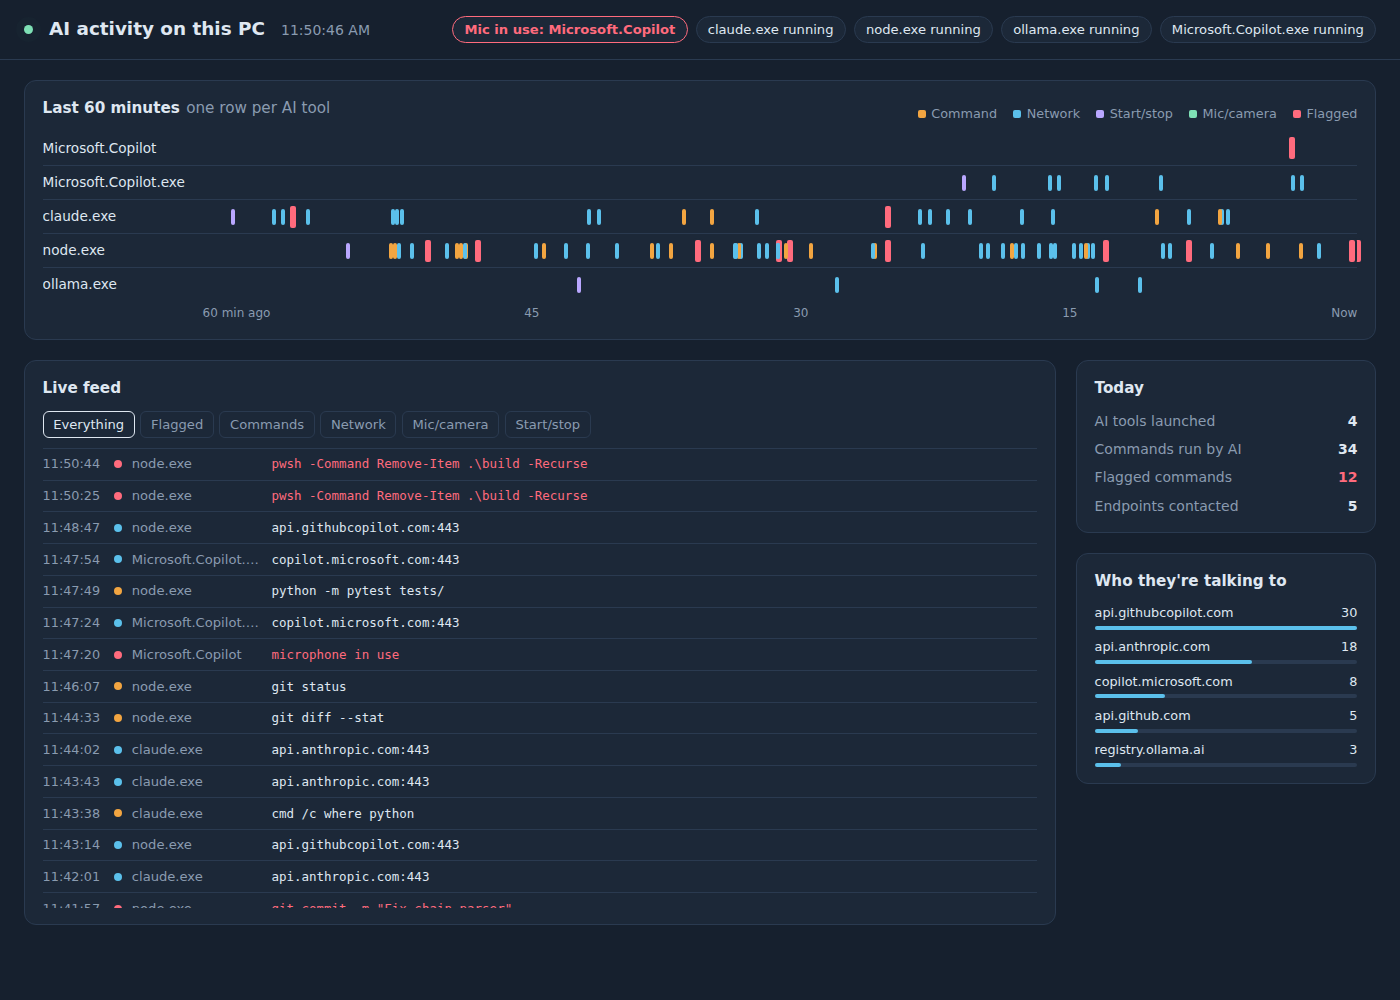
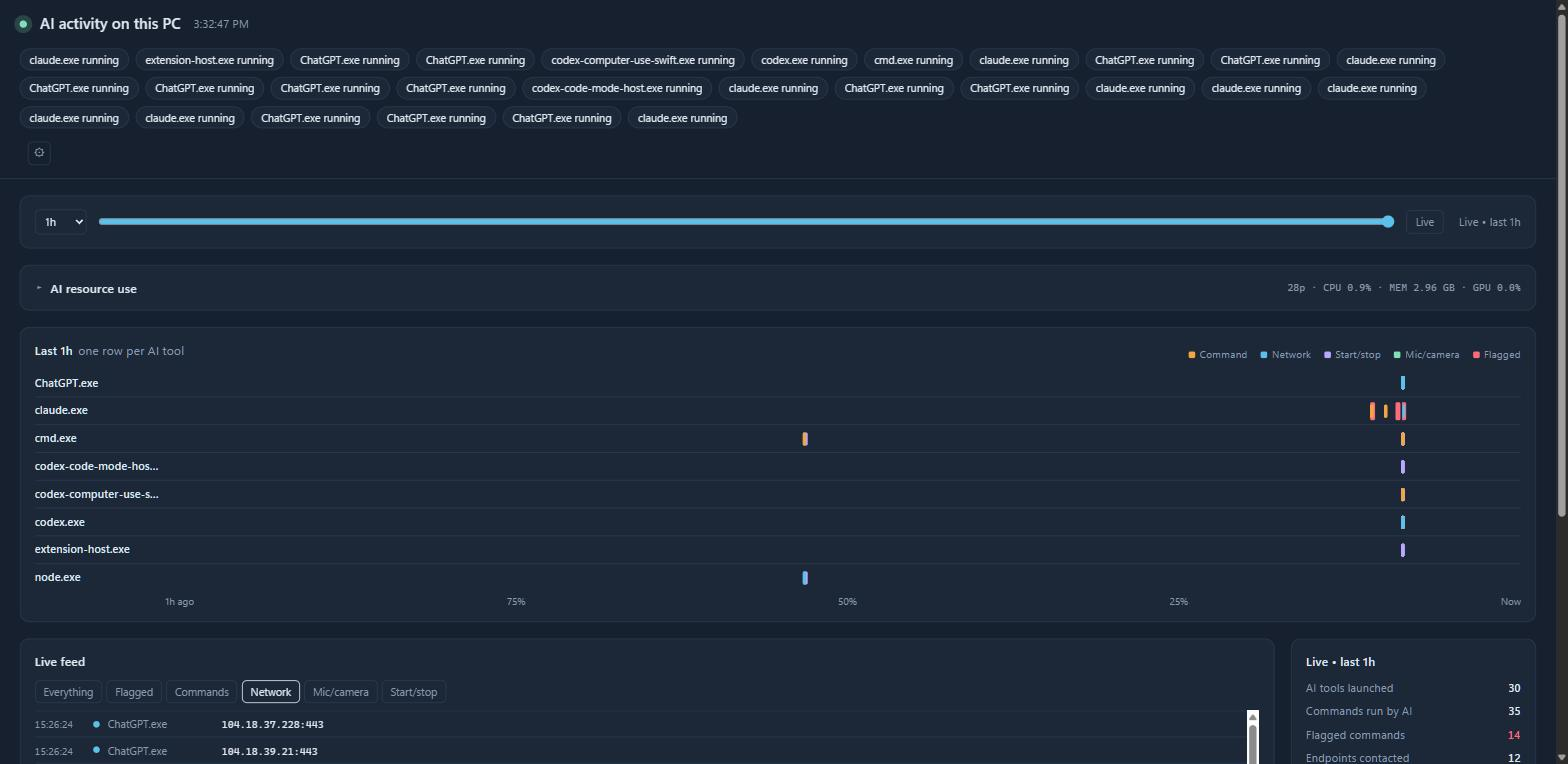
docs: bring README and screenshots up to date with the Rust rewrite
The README and preview screenshot still described the old Python
dashboard (no timeframe slider, no perf meters, no settings menu).
Updates:

- New screenshots of the current UI: the main dashboard (Network
  feed filter, to avoid showing real local file paths) and the
  Settings panel + performance overlay under the Synthwave theme.
- "What it tracks" now covers CPU/memory/GPU performance metrics,
  reverse-DNS hostnames on endpoints, and the theme/layout/background
  settings menu.
- Project layout table includes the /api/perf endpoint.
- Known limits notes that some endpoints genuinely have no reverse
  DNS record (not a bug) alongside the existing poll-interval note.
- Fixed "pull request against main" -> master (the repo's actual
  default branch).

diff --git a/README.md b/README.md
@@ -1,6 +1,6 @@
 # AI Activity Monitor
 
-See what AI tools are doing on your Windows PC, live: which ones are running, what commands they run, which services they talk to, and when anything uses your mic or camera.
+See what AI tools are doing on your Windows PC, live: which ones are running, what commands they run, which services they talk to, how much CPU/memory/GPU they're using, and when anything uses your mic or camera.
 
 ![Dashboard](docs/dashboard-preview.png)
 
@@ -8,12 +8,17 @@ See what AI tools are doing on your Windows PC, live: which ones are running, wh
 
 - AI tools starting and stopping (Claude, Copilot, ChatGPT, Ollama, Cursor, LM Studio, GitHub Copilot CLI, Claude Code, and more)
 - Commands AI tools spawn (PowerShell, cmd, git, python, curl...), with risky ones flagged
-- Network endpoints each AI tool connects to
+- Network endpoints each AI tool connects to, with reverse DNS so you see hostnames instead of raw IPs where one exists
+- CPU, memory, and GPU usage per AI tool, live — a compact retro VU-meter readout that expands into a full per-tool breakdown
 - Microphone and camera use by any app, from Windows' own privacy records
 
 Browse history with the timeframe dropdown and look-back slider — not just live activity, the full range you've collected. Drag back to freeze on a past window; jump back to "Live" any time.
 
-All data stays local in `%LOCALAPPDATA%\AIMonitor\aimon.db`. The dashboard listens on `127.0.0.1` only.
+Customize it from the gear icon in the header: pick a curated color theme (or tweak individual colors on top), show/hide any section, and set your own background image.
+
+![Theme + performance overlay](docs/dashboard-theme-preview.png)
+
+All data stays local in `%LOCALAPPDATA%\AIMonitor\aimon.db`. The dashboard listens on `127.0.0.1` only. Theme/layout/background preferences live only in your browser's local storage — never sent anywhere.
 
 ## Quick start
 
@@ -55,7 +60,7 @@ To uninstall:
 | Path | Purpose |
 |---|---|
 | `crates/aimon-collector` | Polls (every 3 seconds by default) and writes events to SQLite |
-| `crates/aimon-dashboard` | Local web server, JSON API (`/api/state`, `/api/events`, `/api/meta`, `/api/river`), and the embedded frontend |
+| `crates/aimon-dashboard` | Local web server, JSON API (`/api/state`, `/api/events`, `/api/meta`, `/api/river`, `/api/perf`), and the embedded frontend |
 | `crates/aimon-report` | Static daily HTML report |
 | `crates/aimon-core` | Shared schema, DB access, process/network/registry monitoring, AI-tool matching rules |
 | `crates/aimon-api-types` | Wire types shared between the dashboard server and the frontend |
@@ -69,6 +74,7 @@ To add AI tools to watch, edit `AI_NAME_MATCH` / `AI_CMDLINE_MATCH` in `crates/a
 - Browser-based AI (ChatGPT or Claude in a browser tab) shows up as the browser, not the AI service.
 - Commands that finish faster than the poll interval can be missed between polls (see below to tune it).
 - Mic/camera detection reads Windows registry data and has only been validated on Windows 11.
+- Some endpoints show as a raw IP instead of a hostname — that's usually a real absence of a reverse-DNS (PTR) record on the provider's side (common for CDN/edge IPs), not a lookup failure on this end.
 
 ### Tuning the poll interval
 
@@ -88,4 +94,4 @@ To change it: write a single integer (seconds, clamped to 1-30) to `%LOCALAPPDAT
 
 ## Contributing
 
-Work on a branch and open a pull request against `main`. Never commit a real `aimon.db` or generated reports; they contain your activity history.
+Work on a branch and open a pull request against `master`. Never commit a real `aimon.db` or generated reports; they contain your activity history.
